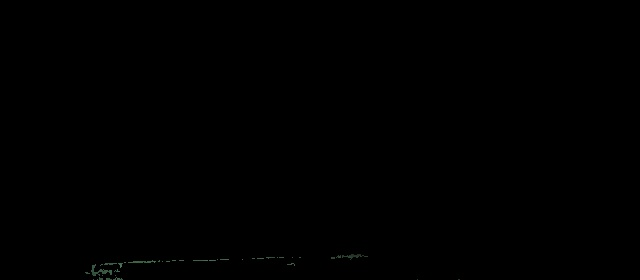
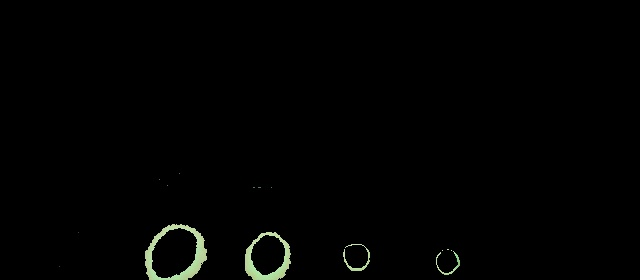
pushing everything to debug

diff --git a/PiController/enhancedduckvision.py b/PiController/enhancedduckvision.py
@@ -27,11 +27,11 @@ def convert_hls(image):
 
 def select_green(image):
     converted = convert_hls(image)
-    # yellow color mask
+    # Green color mask
     lower = np.uint8([50, 0, 50])
-    upper = np.uint8([70, 100, 80])
-    yellow_mask = cv2.inRange(converted, lower, upper)
-    return cv2.bitwise_and(image, image, mask=yellow_mask)
+    upper = np.uint8([80, 200, 200])
+    green_mask = cv2.inRange(converted, lower, upper)
+    return cv2.bitwise_and(image, image, mask=green_mask)
 
 
 def select_red(image):
@@ -77,19 +77,20 @@ def process(stream, vOffset, vOffsetOld, stopLine, greenLight):
                 if stopLine.value and not greenLight.value:
                     cropped_for_green = image[200:height, 0:width].copy()
                     green_img = select_green(cropped_for_green)
+                    cv2.imwrite("green.jpg", green_img)
                     num_of_green_px = np.where(np.any(green_img != [0, 0, 0], axis=-1))[1].size
-                    print("%s\tNumber of Green pixels: %d" % (datetime.datetime.now(), num_of_green_px))
-                    if num_of_green_px > 100:
+                    #print("%s\tNumber of Green pixels: %d" % (datetime.datetime.now(), num_of_green_px))
+                    if num_of_green_px > 1000:
                         greenLight.value = True
                         print("%s\tFOUND GREEN>>>: Starting Now" % (datetime.datetime.now()))
                 else:
-                    cropped_for_red = image[350:height, 0:width].copy()
+                    cropped_for_red = image[300:height, 280:360].copy()
                     red_image = select_red(cropped_for_red)
                     # red_px = np.mean(np.where(np.any(red_image != [0, 0, 0], axis=-1)), axis=1)
                     num_of_red_px = np.where(np.any(red_image != [0, 0, 0], axis=-1))[1].size
-                    print("%s\tNumber of Red pixels: %d" % (datetime.datetime.now(), num_of_red_px))
+                    #print("%s\tNumber of Red pixels: %d" % (datetime.datetime.now(), num_of_red_px))
                     # red_exist = not np.all(np.isnan(red_px))
-                    if num_of_red_px > 100:
+                    if num_of_red_px > 1000:
                         stopLine.value = True
                         print("%s\tFOUND RED!!!: Stop Now" % (datetime.datetime.now()))
 
@@ -129,13 +130,13 @@ def process(stream, vOffset, vOffsetOld, stopLine, greenLight):
                             int(yellow_px[0]), current_center, diff))
                     vOffset.value = int(diff)
                 elif white_exist and not yellow_exist:
-                    current_center = int(white_px[1]) - 261
+                    current_center = int(white_px[1]) - 320
                     diff = expected_center - current_center
                     vOffset.value = int(diff)
                     print("%s\tNo yellow pixel found!\tWhite Pixel: x = %d, y = %d\t diff: %d" % (
                         datetime.datetime.now(), int(white_px[1]), int(white_px[0]), diff))
                 elif yellow_exist and not white_exist:
-                    current_center = 261 - int(yellow_px[1])
+                    current_center = 260 - int(yellow_px[1])
                     diff = current_center - expected_center
                     vOffset.value = int(diff)
                     print("%s\tNo white pixel found!\tYellow Pixel: x = %d, y = %d\t diff: %d" % (

diff --git a/PiController/PyController.py b/PiController/PyController.py
@@ -212,7 +212,7 @@ def serialReader():
     
     print("Starting serial thread")
     while (goSerial):
-        if (s1.in_waiting):
+        if (s1.in_waiting()):
             # read the "label" byte
             serialIn = s1.read(20)
             # read the "data" byte
@@ -315,7 +315,7 @@ def visionController():
                 #     # print("Finished writing start")
                 #     flag = False
 
-                if (stopLine.value and not stopped and (datetime.now() - lastStart).seconds > 3):
+                if (stopLine.value and not stopped and (datetime.now() - lastStart).seconds > 2):
                     print("Stopper middle: stp")
                     write("stp")
                     stopped = True
@@ -574,11 +574,11 @@ def smallTest():
         # spawn a thread to switch greenLight off 1 second from now
         print("CONTROLLER: spawning greenLight changer thread")
         greenChangers.append(threading.Thread(target=greenChanger))
-        greenChanger.start()
+        greenChangers[0].start()
 
         # change turn radius here
         print("CONTROLLER: performing turn")
-        radius = .2
+        radius = .5
         # args: [rTurn (boolean, if this is a right turn. False = left turn)], [radius of turn]
         turn(True, radius)
 
@@ -604,7 +604,7 @@ def smallTest():
     goSerial = False
     serial_thread.join()
     print("Serial thread joined")
-    greenChanger.join()
+    greenChangers[0].join()
     print("Green thread joined")
     vision_process.terminate()
     print("Vision process terminated")

diff --git a/peripherals/camera/greenFilter.py b/peripherals/camera/greenFilter.py
@@ -1,0 +1,38 @@
+import io
+import time
+
+import cv2
+import numpy as np
+from picamera import PiCamera
+
+
+def convert_hls(image):
+    return cv2.cvtColor(image, cv2.COLOR_RGB2HLS)
+
+
+def select_green(image):
+    converted = convert_hls(image)
+    # yellow color mask
+    lower = np.uint8([50, 0, 50])
+    upper = np.uint8([80, 200, 200])
+    green_mask = cv2.inRange(converted, lower, upper)
+    return cv2.bitwise_and(image, image, mask=green_mask)
+
+
+# Create the in-memory stream
+stream = io.BytesIO()
+with PiCamera() as camera:
+    camera.resolution = (640, 480)
+    camera.start_preview()
+    time.sleep(1)
+    camera.capture(stream, format='jpeg')
+# Construct a numpy array from the stream
+data = np.fromstring(stream.getvalue(), dtype=np.uint8)
+# "Decode" the image from the array, preserving colour
+image = cv2.imdecode(data, 1)
+# OpenCV returns an array with data in BGR order. If you want RGB instead
+# use the following...
+# image = image[:, :, ::-1]
+cropped_for_green = image[200:480, 0:640].copy()
+green_img = select_green(cropped_for_green)
+cv2.imwrite("greenNew.jpg", green_img)

diff --git a/PiController/vision_test.py b/PiController/vision_test.py
@@ -8,7 +8,8 @@ if __name__ == '__main__':
         see = Value('b', True)
         stopLine = Value('b', False)
         greenLight = Value('b', False)
-        vision_process = Process(target=vision, args=(vOffset, see, stopLine, greenLight))
+        vOffsetOld = Value('i', 0)
+        vision_process = Process(target=vision, args=(vOffset, vOffsetOld, see, stopLine, greenLight))
         vision_process.start()
         running = True;
         oldVal = -999

diff --git a/Pi-Duino/piduino_control/src/arduinoController/types.h b/Pi-Duino/piduino_control/src/arduinoController/types.h
@@ -1,9 +1,12 @@
 enum str_code{
 	motor,
+	irSensor,
 	png,
 	stopp,
   start,
   vOffset,
+  odometry,
+  calibrat,
   state1,
   state2,
   xyt,
@@ -11,8 +14,6 @@ enum str_code{
   rtn,
   fwd,
   visual,
-	cax,
-  cay,
-  cat,
+	update,
 	none
 };
